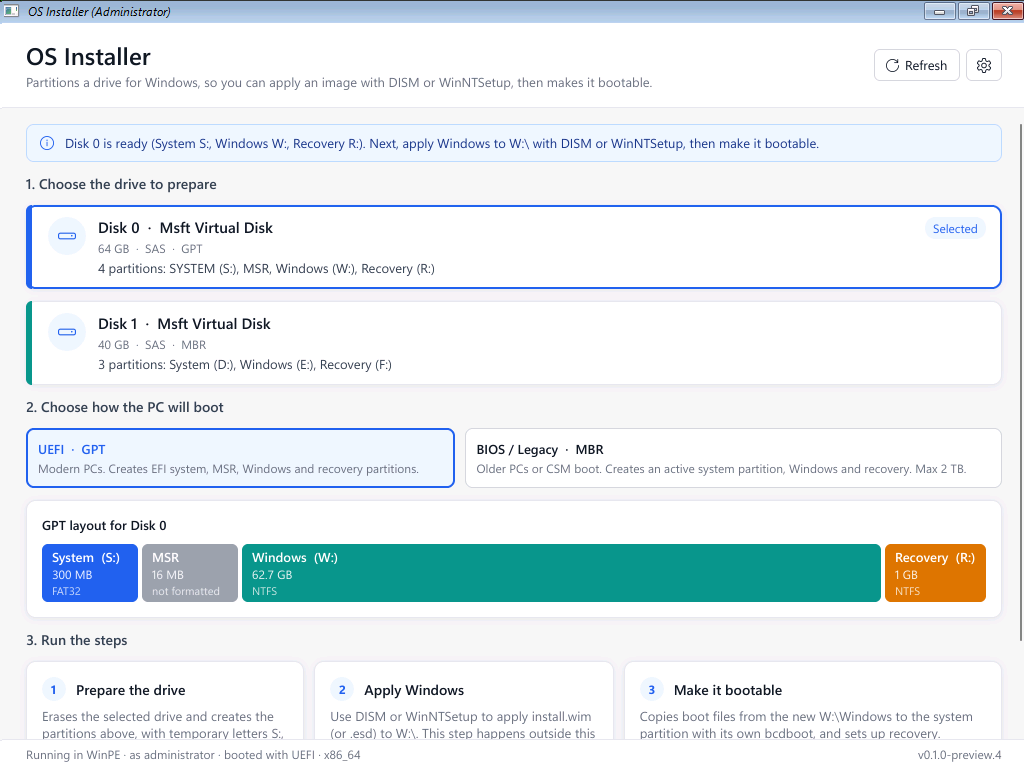
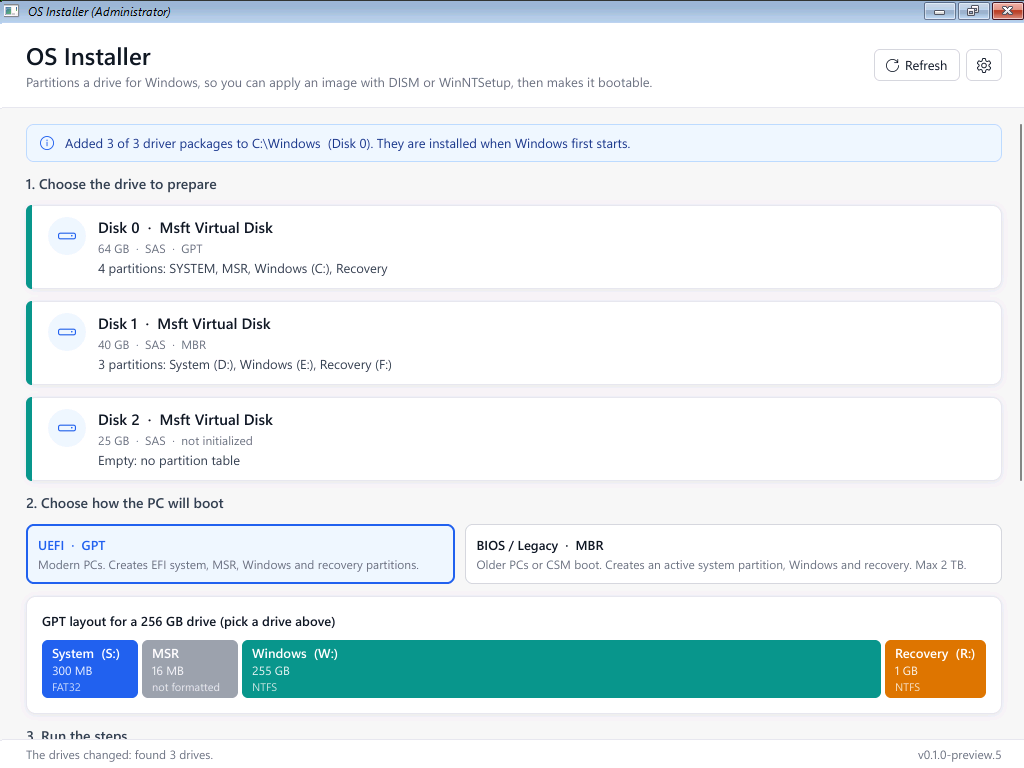
README: inject drivers and USB drives (0.1.0-preview.6)

diff --git a/README.md b/README.md
@@ -5,18 +5,29 @@ A small Windows tool that gets a drive ready for Windows to be imaged onto by ha
 1. **Prepare the drive.** Pick a disk and how the PC will boot: UEFI (GPT) or BIOS / Legacy (MBR). OS Installer erases the disk and creates Microsoft's recommended partitions, with temporary drive letters.
 2. **Apply Windows yourself** to `W:\` with DISM or WinNTSetup.
 3. **Make it bootable.** OS Installer copies the boot files from the new Windows to the system partition with that Windows' own `bcdboot`, and sets up the recovery partition.
+4. **Inject drivers** (optional). OS Installer adds every driver (`.inf`) in a folder and its subfolders to the new Windows with DISM, so it has them from its first boot.
 
 It is one small exe with a window and a command line, and it runs in full Windows and in **WinPE**, including a plain WinPE with no optional components added.
 
 ![screenshot](docs/screenshot.png)
 
-> **Preview, and it erases disks.** Listing drives and preparing them (step 1) work, in Windows and WinPE. Preparing a drive deletes everything on it, so try it on a spare drive or in a virtual machine first. Making the drive bootable (step 3) comes in the next release.
+> **Preview, and it erases disks.** Listing drives, preparing them (step 1) and injecting drivers (step 4) work, in Windows and WinPE. Preparing a drive deletes everything on it, so try it on a spare drive or in a virtual machine first. Making the drive bootable (step 3) comes in a later release.
 
 Before anything is erased, OS Installer shows what is on the drive and what it will get, and asks:
 
 ![confirming before a drive is erased](docs/prepare.png)
 
-It will not prepare the drive Windows is running from, the drive OS Installer itself is on, write-protected drives or Storage Spaces drives. Preparing needs administrator rights.
+It will not prepare the drive Windows is running from, the drive OS Installer itself is on, write-protected drives, Storage Spaces drives or, in WinPE, the drive with WinPE or Windows Setup on it (usually the USB stick you started from). Preparing needs administrator rights.
+
+![the four steps, with Inject drivers](docs/drivers.png)
+
+## USB drives
+
+USB drives are listed and prepared like internal ones, and the list updates by itself when you plug a drive in or take it out. USB SSDs and hard drives behave like internal disks. Some USB flash drives (the ones that report removable media) may refuse the GPT partition table that UEFI needs; if so, OS Installer says so. USB support is new and hasn't been tested on many devices yet, so please report what works and what doesn't.
+
+## Injecting drivers
+
+After applying Windows, step 4 (or `inject-drivers` on the command line) adds the drivers in a folder, such as the storage and network drivers for a new PC, to that Windows. It uses DISM, which WinPE and Windows include. Choose the Windows it found on the other drives, type or browse to the folder (subfolders are included), and optionally allow unsigned drivers.
 
 ## Download
 
@@ -52,12 +63,15 @@ The same exe works from a command prompt, which suits scripts and WinPE:
 os-installer list-disks
 os-installer prepare --disk 1 --firmware uefi
 os-installer prepare --disk 1 --firmware uefi --yes
+os-installer list-windows
+os-installer inject-drivers --windows W:\ --drivers D:\Drivers
 os-installer env
 os-installer --help
 ```
 
 - `list-disks` lists the drives with their partitions, letters and labels, and says which can't be prepared and why. Add `--json` for JSON.
 - `prepare` shows what is on the drive and the layout it will get, and changes nothing (exit code 2). Only with `--yes` does it erase the drive and create the partitions; that needs an administrator command prompt (WinPE's always is). The disk numbers are the same as diskpart's.
+- `list-windows` lists the Windows installations on other drives; `inject-drivers` adds every `.inf` in the folder and its subfolders to one of them (`--force-unsigned` adds unsigned drivers too). Needs an administrator command prompt.
 - `env` says whether it is running in Windows or WinPE, whether it is running as administrator, and how the PC booted (UEFI or BIOS).
 - `plan --firmware uefi --size-gb 476` shows the partitions for a drive of that size, without touching anything.
 
